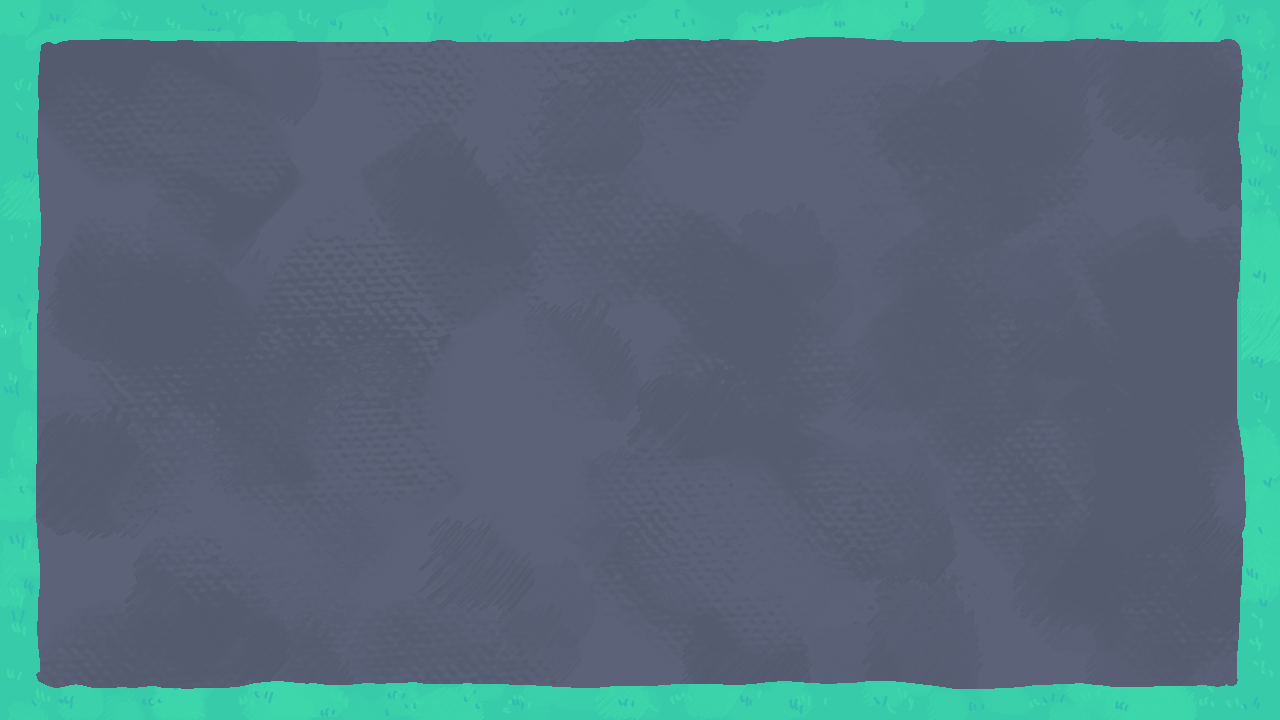
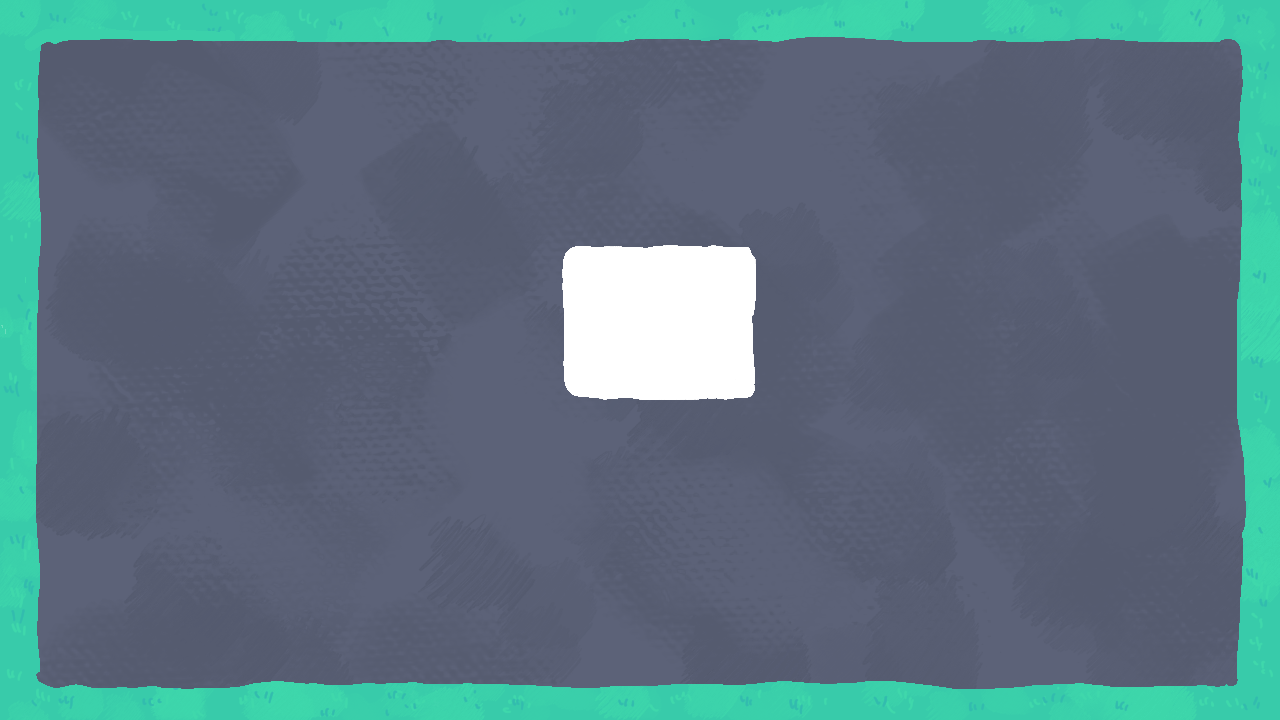
feat: add obstacles map layer

Changed region(s): [[0.4375, 0.3361, 0.5938, 0.5806]]

diff --git a/app/src/main/java/parcelpanic/view/GameRenderer.java b/app/src/main/java/parcelpanic/view/GameRenderer.java
@@ -48,6 +48,19 @@ public final class GameRenderer {
     // Fetch full layer images from the asset registry
     Image outerGrass = assets.getImage(ImageKey.MAP_LAYER_GRASS);
     Image buildings = assets.getImage(ImageKey.MAP_LAYER_BUILDINGS);
+    Image obstacles = assets.getImage(ImageKey.MAP_LAYER_OBSTACLES);
+
+    var hubTiles = map.getTilesOfType(TileType.HUB);
+    for (Point2D tile : hubTiles) {
+      Image hubTileImg = getTextureForType(TileType.HUB);
+
+      if (hubTileImg != null) {
+        double renderX = tile.getX() * TILE_SIZE;
+        double renderY = tile.getY() * TILE_SIZE;
+        
+        gc.drawImage(hubTileImg, renderX, renderY);
+      }
+    }
 
     // Background Grass
     if (outerGrass != null) {
@@ -58,6 +71,12 @@ public final class GameRenderer {
     if (buildings != null) {
       gc.drawImage(buildings, 0, 0);
     }
+
+    // Obstacles
+    if (obstacles != null) {
+      gc.drawImage(obstacles, 0, 0);
+    } 
+
   }
 
   private void renderVehicles(GraphicsContext gc, GameState state) {

diff --git a/app/src/main/java/parcelpanic/logic/GameSimulation.java b/app/src/main/java/parcelpanic/logic/GameSimulation.java
@@ -39,7 +39,18 @@ public class GameSimulation {
   }
 
   public void addPlayer(int id, double x, double y) {
-    vehicles.put(id, new VehicleLogic(id, x, y));
+    double spawnX = 0;
+    double spawnY = 0;
+
+    // spawn at hub
+    if (hubLocations != null && !hubLocations.isEmpty()) {
+      // pick a random HUB tile
+      Point2D randomHub = hubLocations.get(random.nextInt(hubLocations.size()));
+  
+      spawnX = randomHub.getX() * MatchRules.TILE_SIZE + (MatchRules.TILE_SIZE / 2.0);
+      spawnY = randomHub.getY() * MatchRules.TILE_SIZE + (MatchRules.TILE_SIZE / 2.0);
+    }
+    vehicles.put(id, new VehicleLogic(id, spawnX, spawnY));
     interactionGauges.put(id, 0.0);
   }
 

diff --git a/app/src/main/java/parcelpanic/media/AssetKeys.java b/app/src/main/java/parcelpanic/media/AssetKeys.java
@@ -42,6 +42,7 @@ public final class AssetKeys {
 
     MAP_LAYER_GRASS("map_renders/1_outergrass.png"),
     MAP_LAYER_BUILDINGS("map_renders/2_buildings.png"),
+    MAP_LAYER_OBSTACLES("map_renders/3_obstacles.png"),
     
     ENTITY_PARCEL("entities/parcel.png"),
     EMOTE_CROSS("emotes/emote_cross.png");
